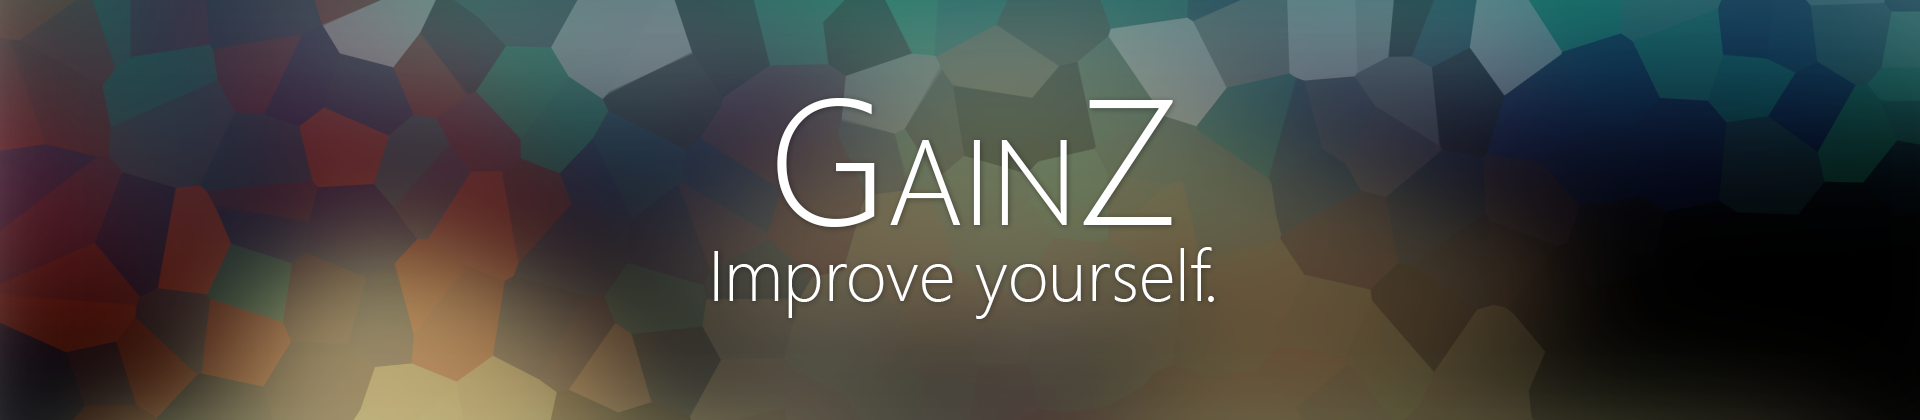
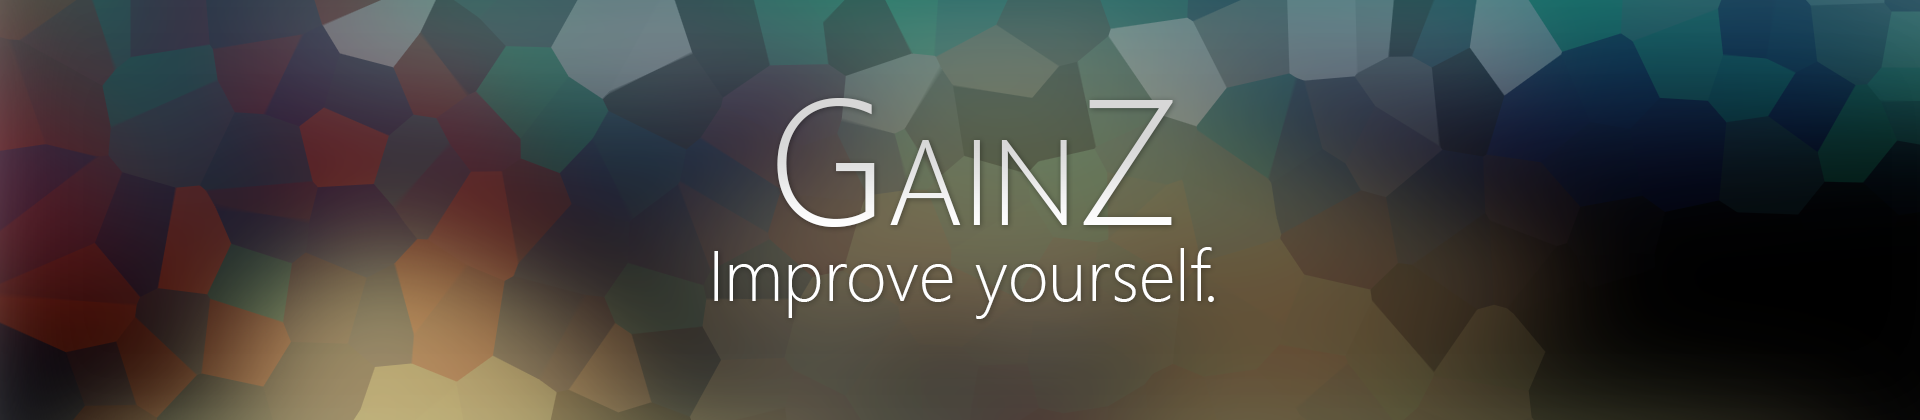
Modify some stuff

Changed region(s): [[0.4062, 0.2167, 0.5938, 0.4333], [0.5625, 0.2167, 0.625, 0.3405]]

diff --git a/frontend/style.css b/frontend/style.css
@@ -37,6 +37,15 @@ body{
 	background-position: center;
 	background-sze: 100% 50%;-->
 }
+h1 { 
+   position: absolute; 
+   font-size: 5	00%;
+   color:#FFFFFF;
+   top: 15%;
+   line-height:50px;
+   left: 0;
+   width: 100%; 
+}
 footer {
     position: absolute;
     left: 0;
